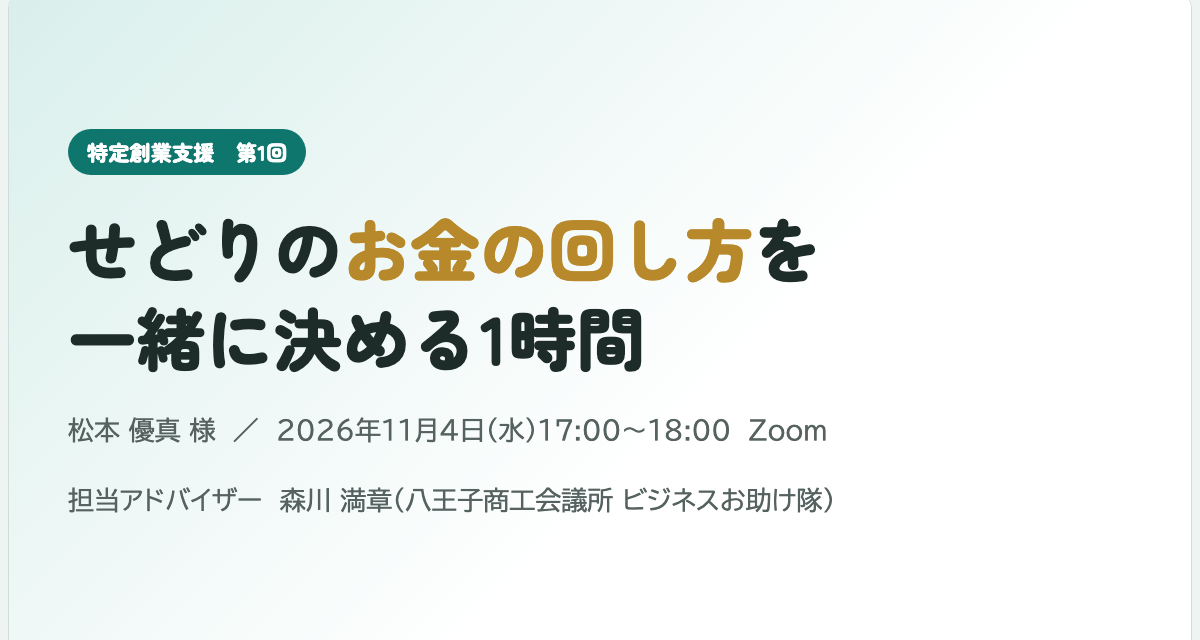
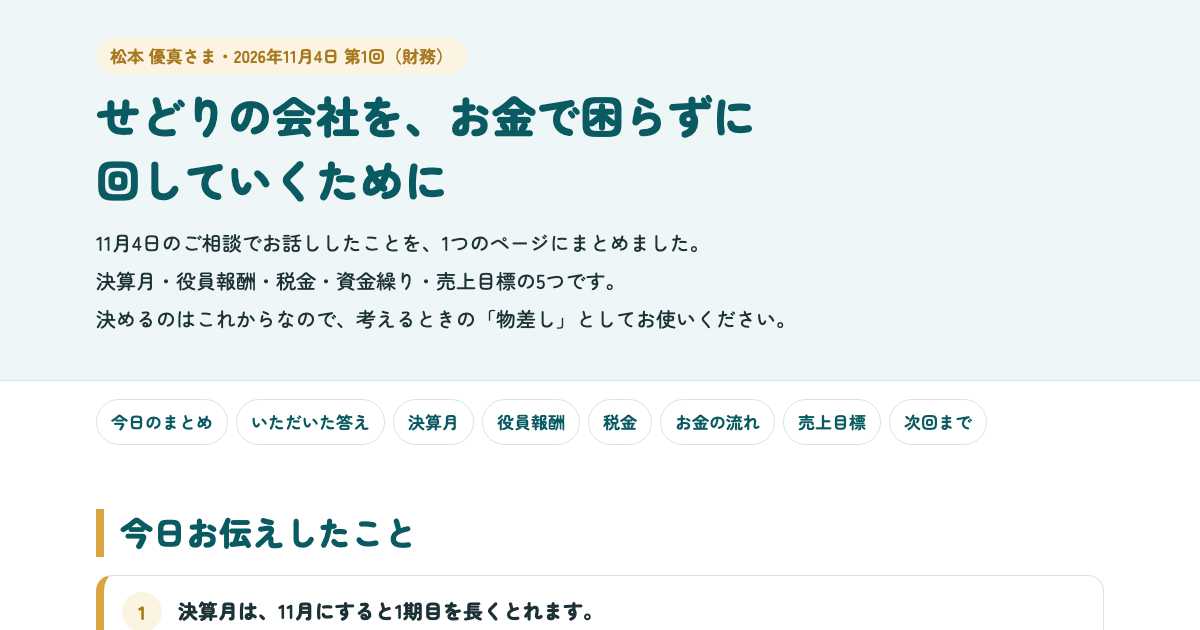
第1回の資料を縦長の読むページに

diff --git a/m1104/index.html b/m1104/index.html
@@ -1,10 +1,10 @@
 <!doctype html>
 <html lang="ja"><head><meta charset="utf-8"><meta name="viewport" content="width=device-width,initial-scale=1,viewport-fit=cover">
 <meta name="robots" content="noindex,nofollow,noarchive">
-<title>特定創業支援 第1回 お金の回し方</title>
-<meta name="description" content="11/4のご相談の資料と、お伝えしたことのまとめ（決算月・役員報酬・資金繰り・売上目標）">
-<meta property="og:title" content="特定創業支援 第1回 お金の回し方">
-<meta property="og:description" content="11/4のご相談の資料と、お伝えしたことのまとめ（決算月・役員報酬・資金繰り・売上目標）">
+<title>せどりの会社を、お金で困らずに回していくために</title>
+<meta name="description" content="11/4のご相談でお話ししたことのまとめ（決算月・役員報酬・税金・資金繰り・売上目標）">
+<meta property="og:title" content="せどりの会社を、お金で困らずに回していくために">
+<meta property="og:description" content="11/4のご相談でお話ししたことのまとめ（決算月・役員報酬・税金・資金繰り・売上目標）">
 <meta property="og:url" content="https://mm738966m-boop.github.io/otasuke-share/m1104/">
 <meta property="og:image" content="https://mm738966m-boop.github.io/otasuke-share/img/og_m1104.png">
 <meta property="og:type" content="website">
@@ -22,12 +22,12 @@
 <body style="margin:0">
 <div id="gate"><div class="in">
   <div class="e">八王子商工会議所 ビジネスお助け隊</div>
-  <h1>特定創業支援 第1回 お金の回し方</h1>
+  <h1>せどりの会社を、お金で困らずに回していくために</h1>
   <p id="msg">開いています…</p>
 </div></div>
 <div id="page" hidden></div>
 <script>
[2 lines of base64/hex data omitted]
 const b64=s=>Uint8Array.from(atob(s),c=>c.charCodeAt(0));
 const msg=document.getElementById('msg');
 async function open_(pw){
